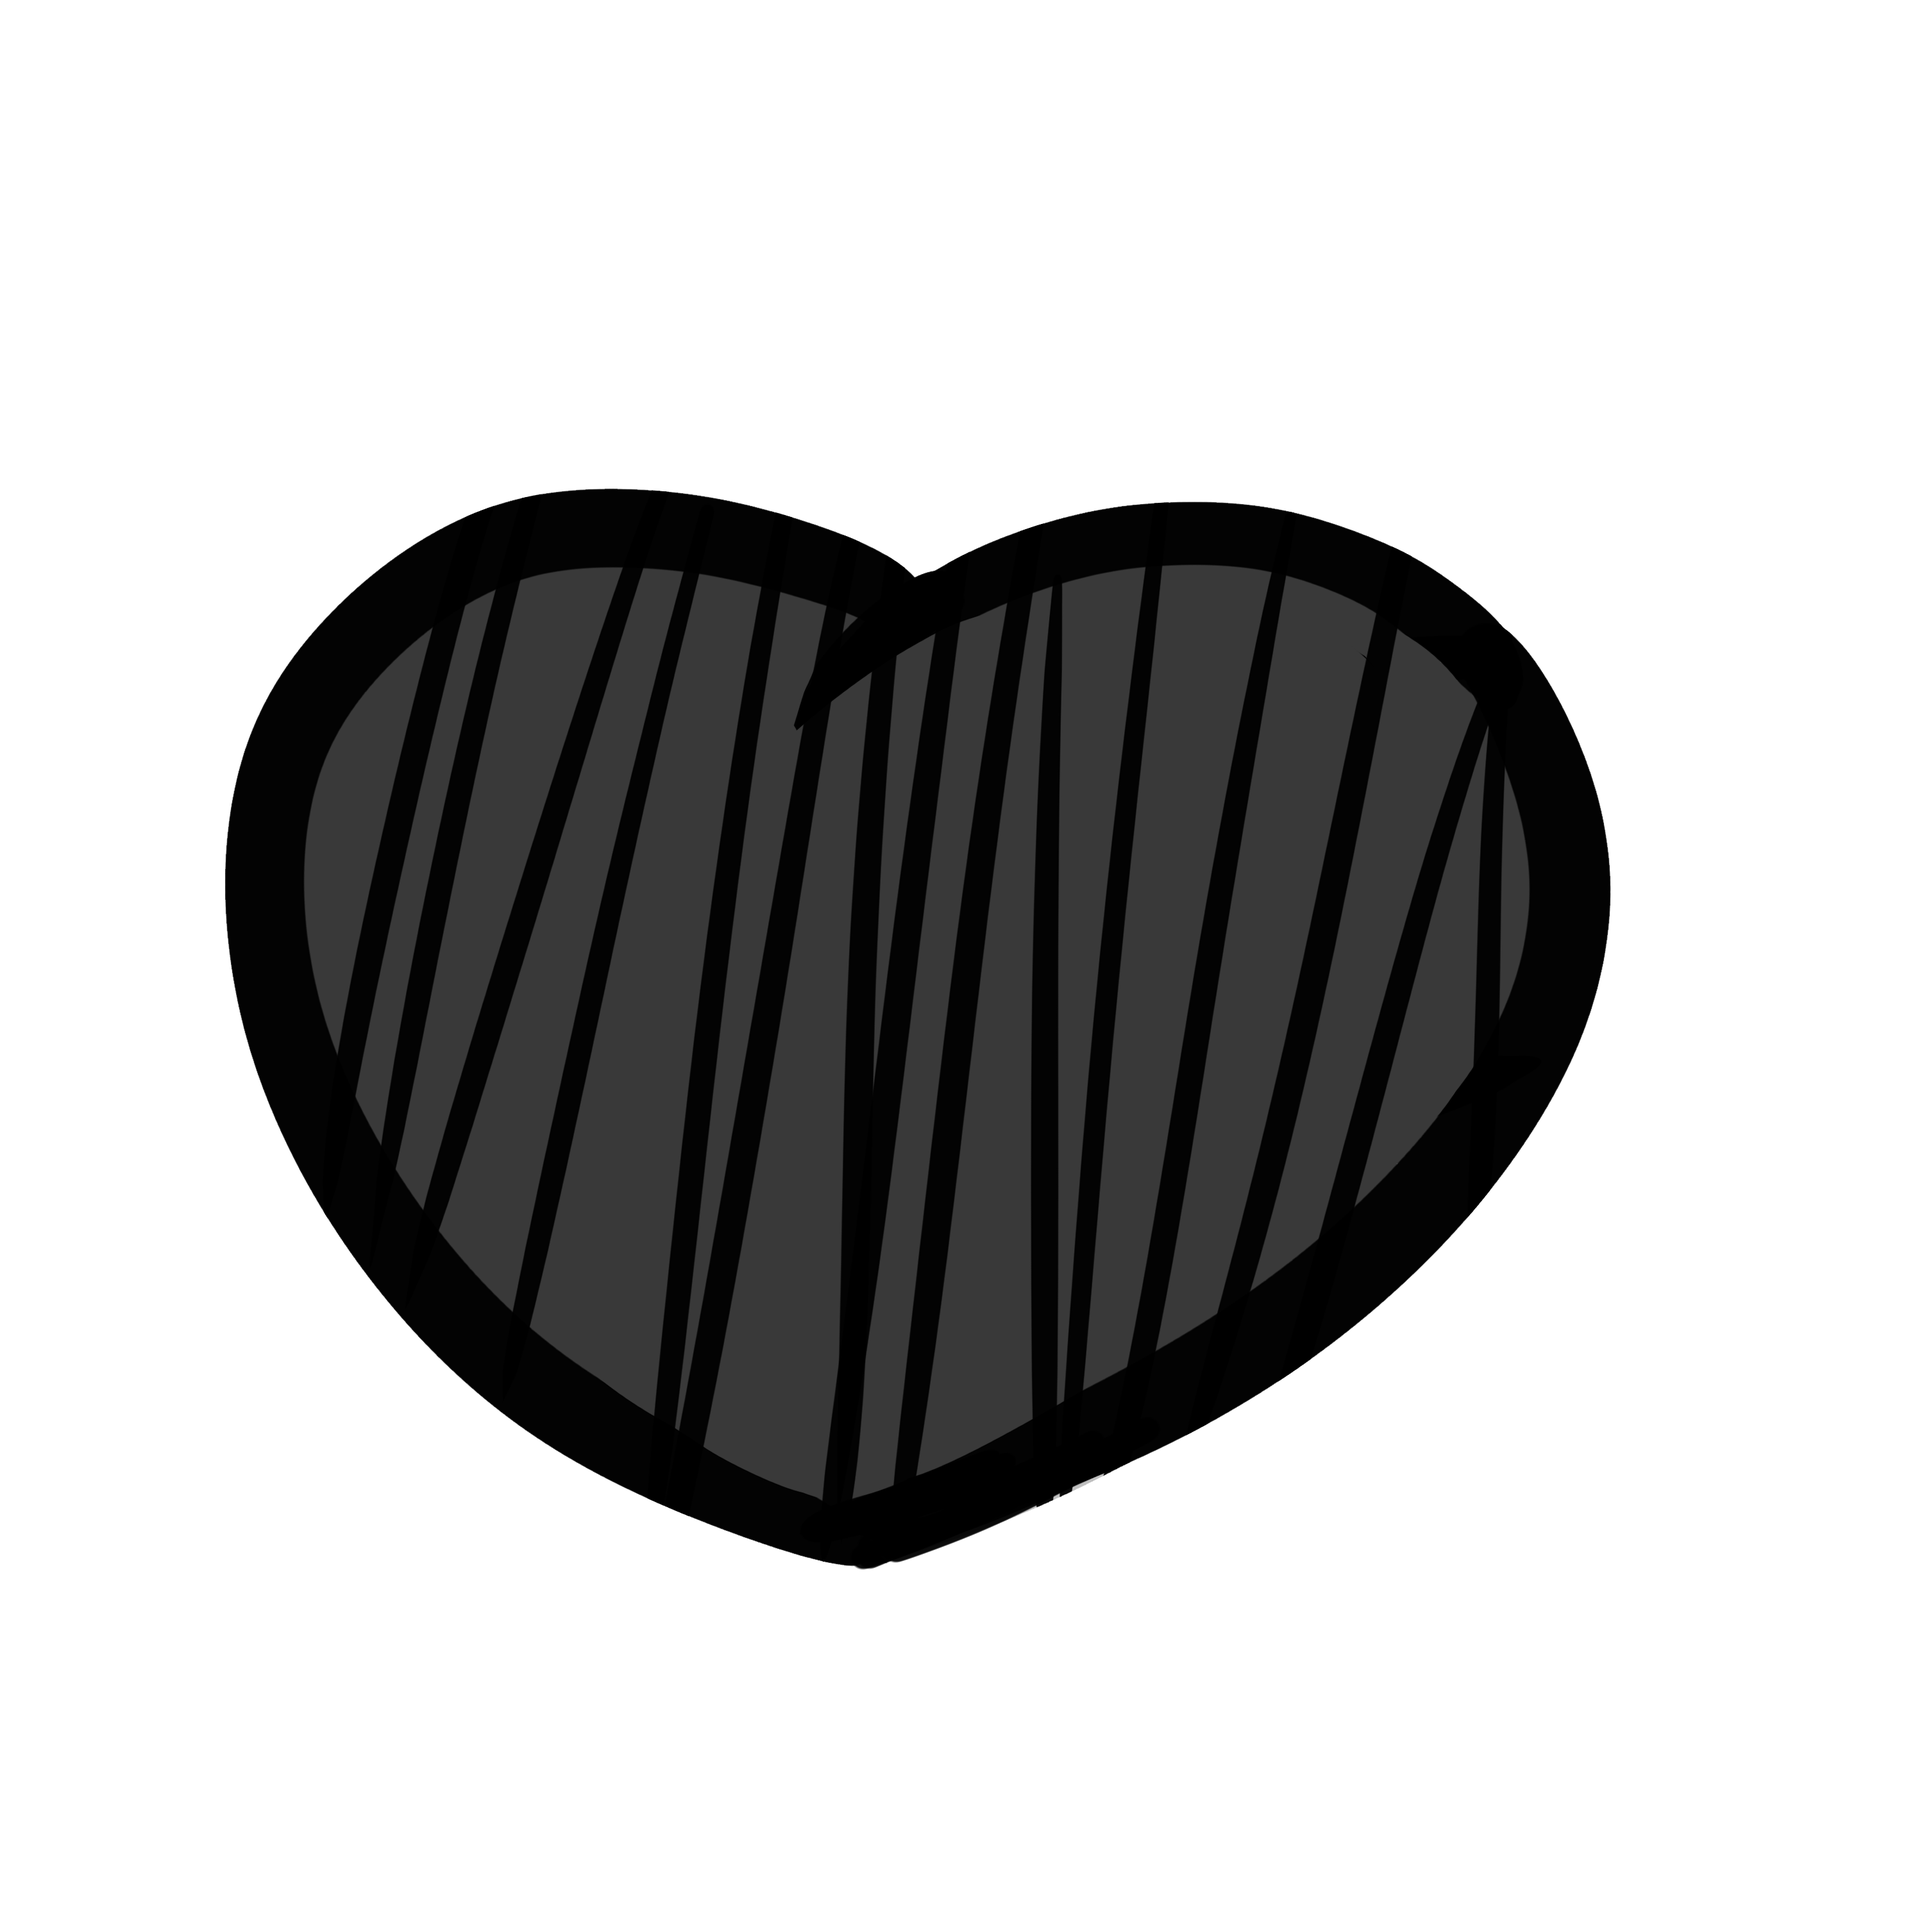
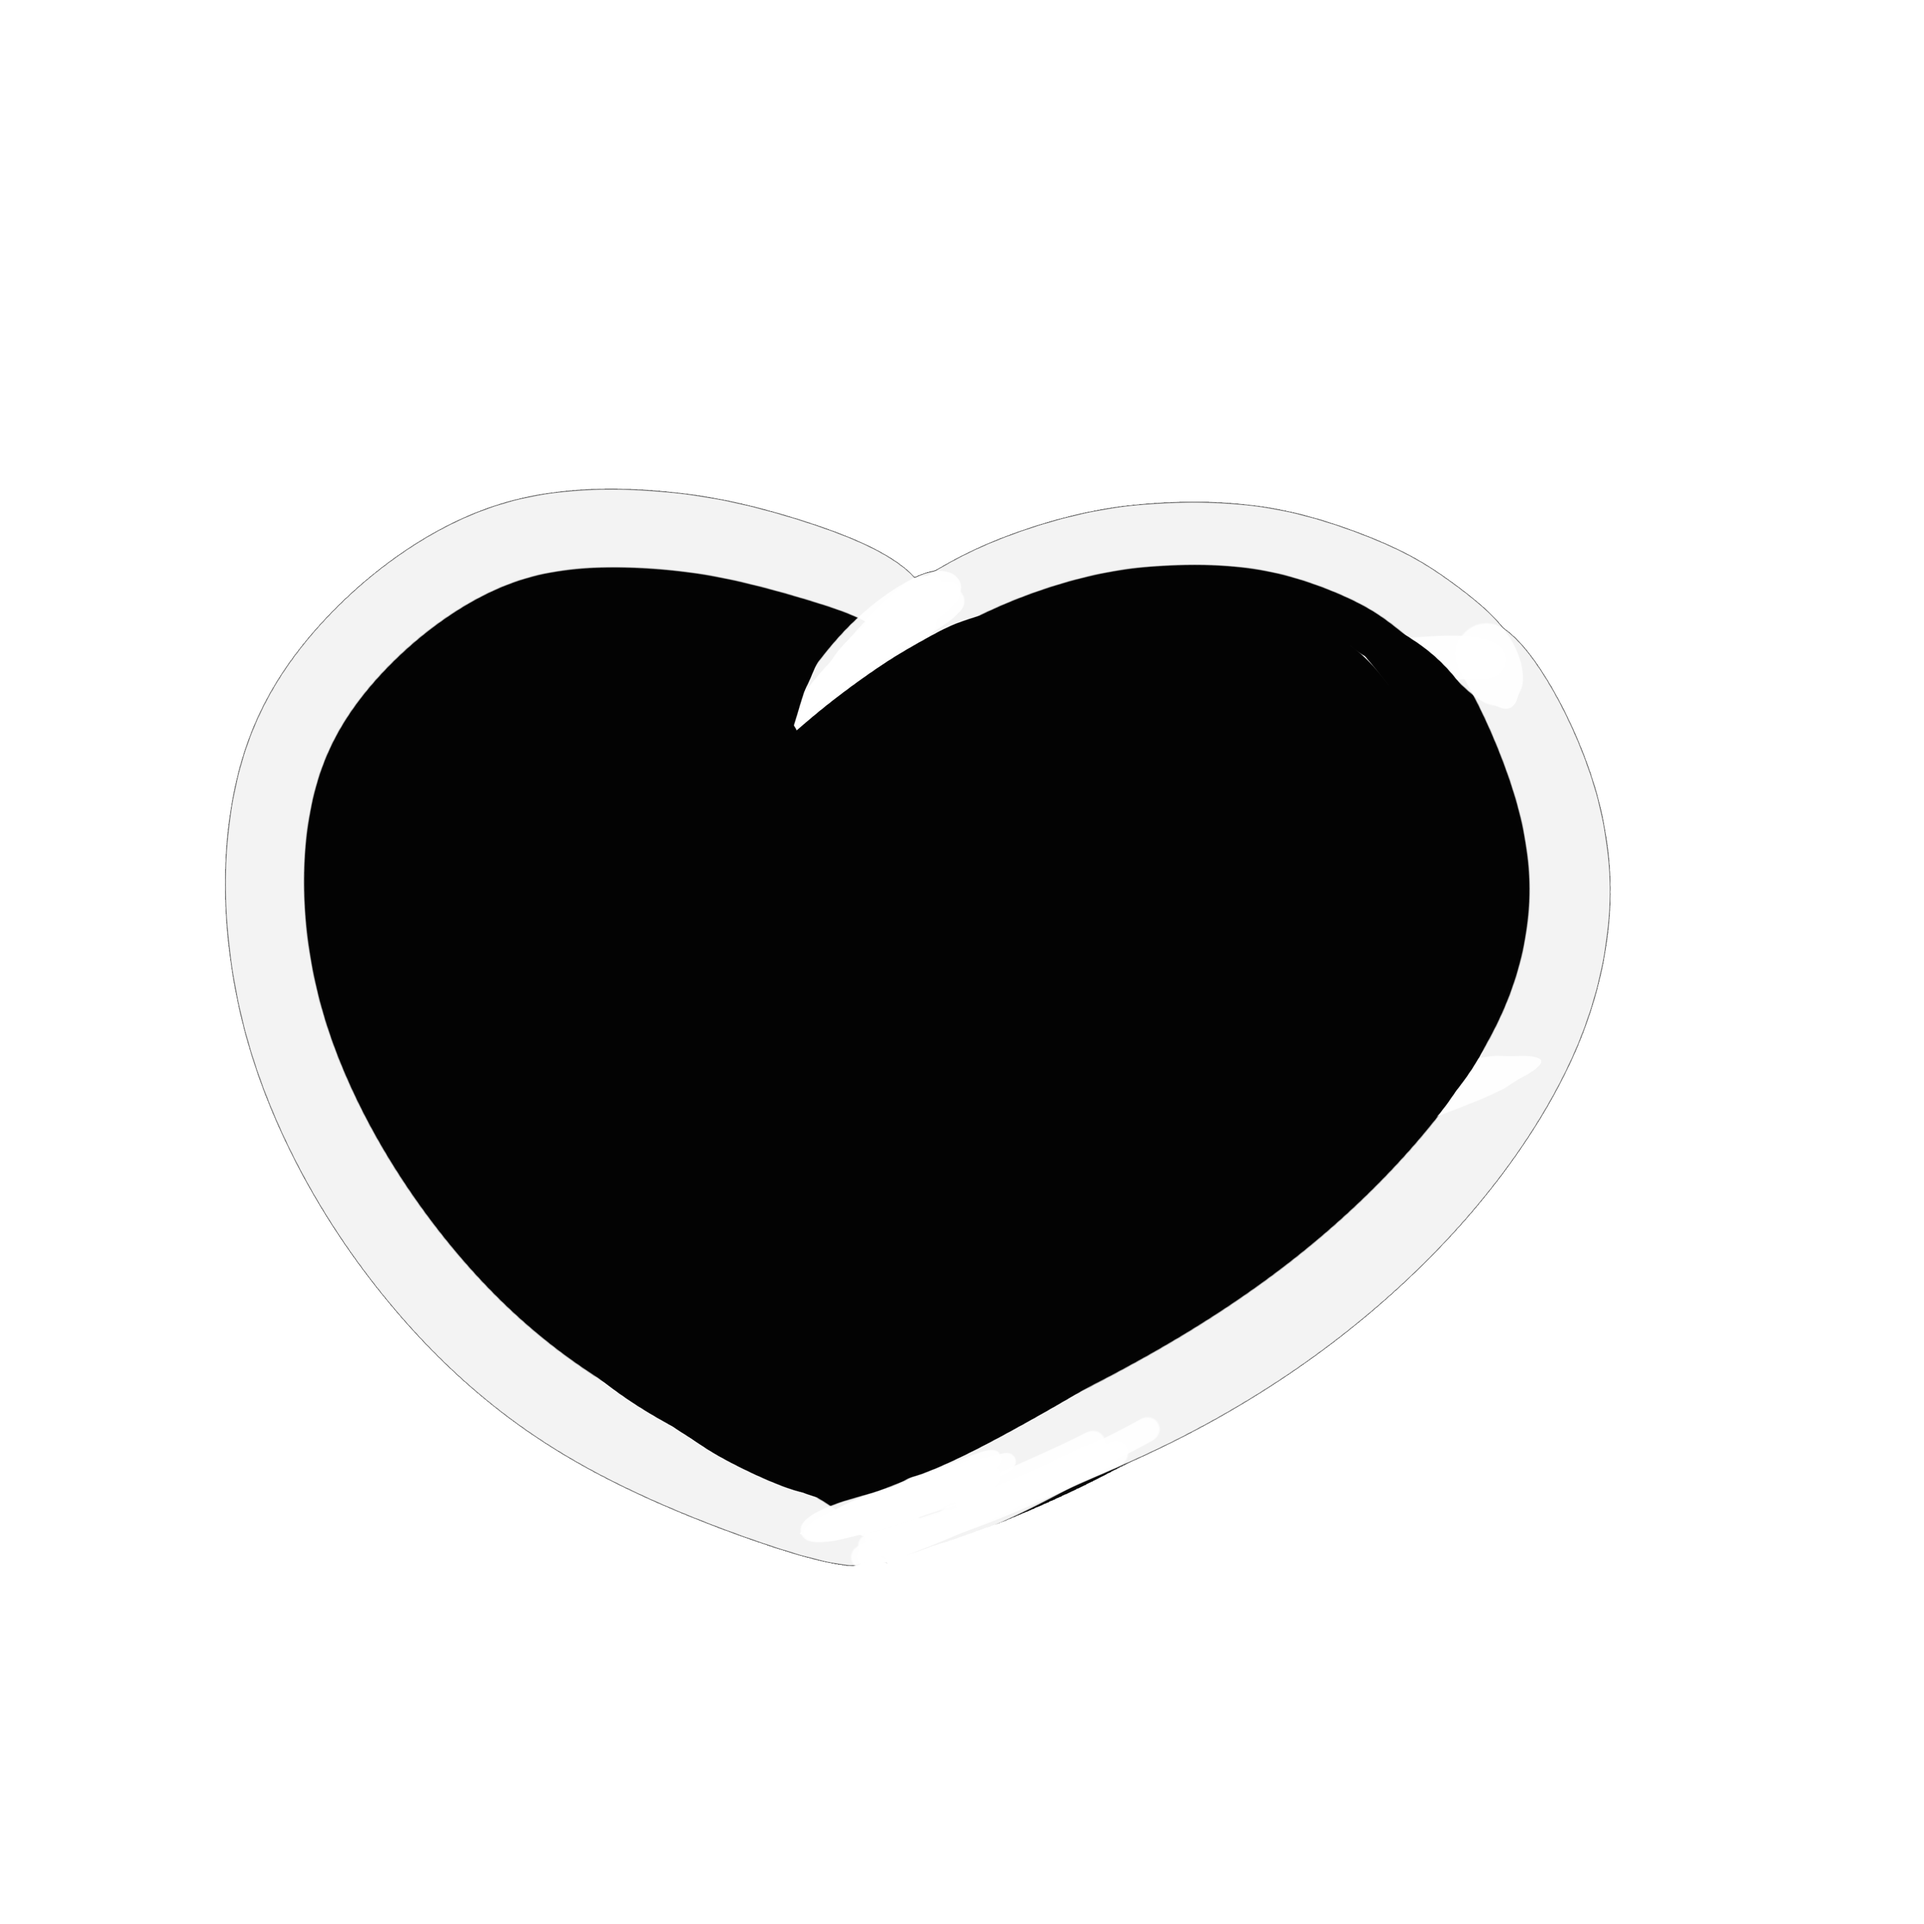
playerUI fixed & BossBar imported

Changed region(s): [[0.093, 0.248, 0.837, 0.837]]

diff --git a/VerdantSorrow/VerdantSorrow/src/components/player/PlayerUI.cpp b/VerdantSorrow/VerdantSorrow/src/components/player/PlayerUI.cpp
@@ -4,9 +4,11 @@
 #include "../../sdlutils/Texture.h"
 #include "../../sdlutils/SDLUtils.h"
 
-PlayerUI::PlayerUI(Texture* tex) : 
-	tex_(tex), attrib_(nullptr),
-	healthDetailTexture(&sdlutils().images().at("healthDetail"))
+PlayerUI::PlayerUI(Texture* heart_) : 
+	heart(heart_),
+	heartBlack(&sdlutils().images().at("heartBlack")),
+	healthDetailTexture(&sdlutils().images().at("healthDetail")),
+	attrib_(nullptr)
 {
 }
 
@@ -22,12 +24,16 @@ void PlayerUI::initComponent()
 
 void PlayerUI::render()
 {
-	int x = 100, y = 40, size = 50;
-	for (int i = 0; i < attrib_->getLives(); i++) {
-		tex_->render({ x,y,size,size });
-		x += size + 20;
+	int x = 100, y = 40, size = 70;
+	for (int i = 0; i < 3; i++) {
+
+		if (i < attrib_->getLives())
+			heart->render({ x,y,size,size });
+		else
+			heartBlack->render({ x,y,size,size });
+
+		x += size + 15;
 	}
 
 	healthDetailTexture->render({ 10, 10, 450, 125 });
 }
-

diff --git a/VerdantSorrow/VerdantSorrow/src/components/player/PlayerUI.h b/VerdantSorrow/VerdantSorrow/src/components/player/PlayerUI.h
@@ -8,14 +8,15 @@ class Texture;
 class PlayerUI : public ecs::Component{
 public:
         __CMPID_DECL__(ecs::_PLAYERUI)
-        PlayerUI(Texture* tex);
+        PlayerUI(Texture* heart_);
         virtual ~PlayerUI();
 
         void initComponent() override;
         void render() override;
 
 protected:
-    Texture* tex_;
+    Texture* heart;
+    Texture* heartBlack;
     PlayerAttributes* attrib_;
 
     Texture* healthDetailTexture;

diff --git a/VerdantSorrow/VerdantSorrow/src/game/FrogScene.cpp b/VerdantSorrow/VerdantSorrow/src/game/FrogScene.cpp
@@ -162,6 +162,7 @@ void FrogScene::playerGenerator(CollisionManager* colManager, Entity* player_) {
 	playerAttackCollider->setIsTrigger(true);
 
 	//Componente ui jugador
+	//player_->addComponent<PlayerUI>(&sdlutils().images().at("heart"), &sdlutils().images().at("heartBlack"));
 	player_->addComponent<PlayerUI>(&sdlutils().images().at("heart"));
 	mngr_->setHandler(ecs::_PLAYER, player_);
 
